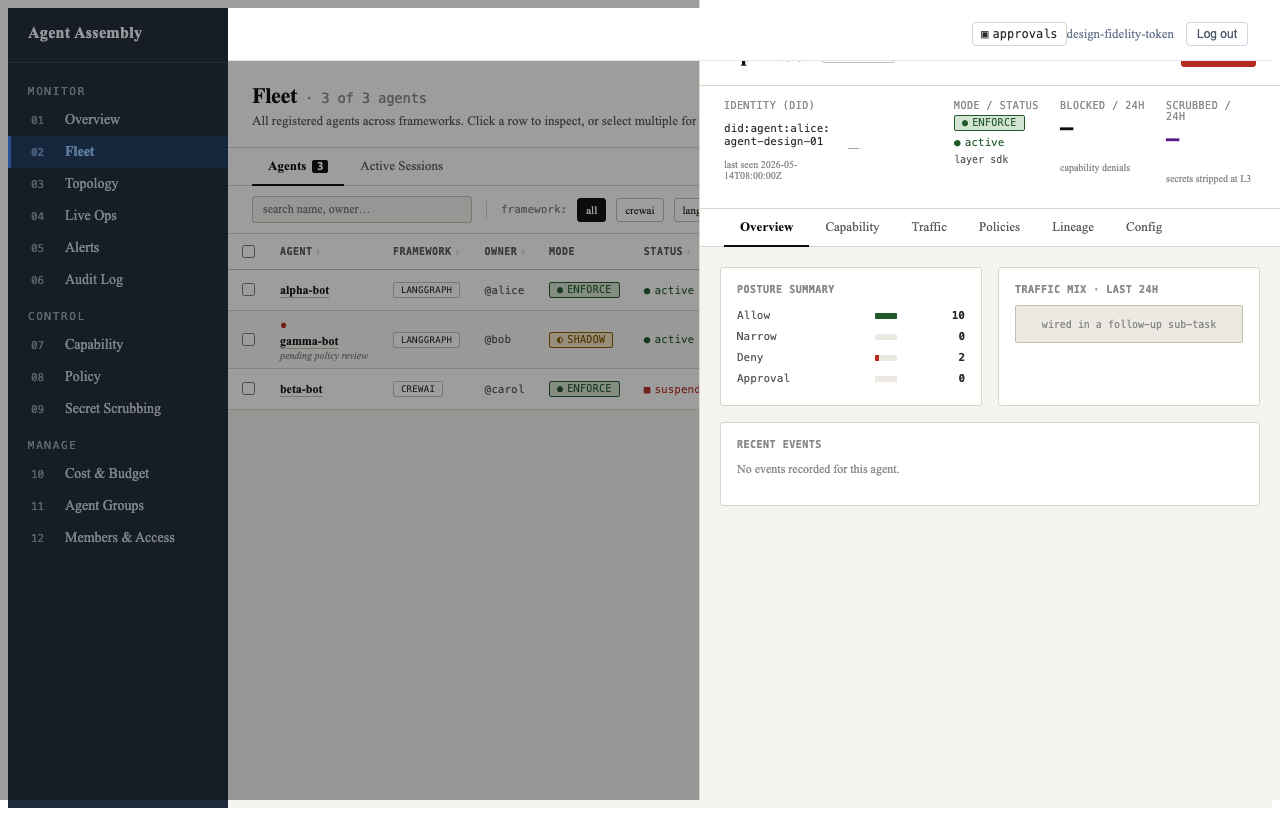
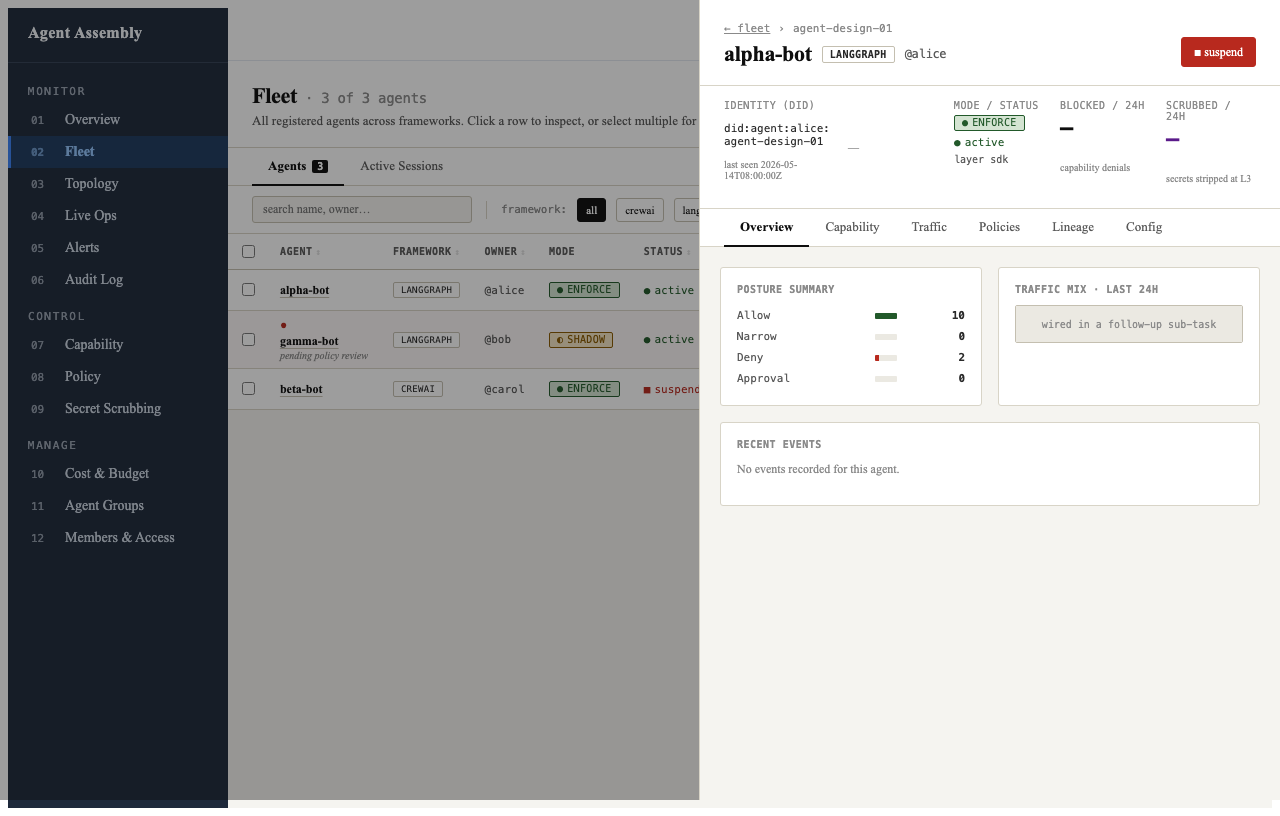
Merge pull request #422 from AI-agent-assembly/v0.0.1/AAASM-1405/fix/drawer_portal
[AAASM-1405] 🐛 (dashboard/components): Portal Drawer to body so it stacks above AppShell topbar

Pull request: [AAASM-1405] 🐛 (dashboard/components): Portal Drawer to body so it stacks above AppShell topbar
## Description

Fixes the stacking bug surfaced by AAASM-1382's design-fidelity verification: the AppShell topbar was visually overlapping the Agent Detail drawer head, hiding the breadcrumb / agent name / Suspend & Resume buttons in the top ~52 px of the drawer panel.

- **`Drawer.tsx`** — renders the scrim subtree via `ReactDOM.createPortal(tree, document.body)` so the drawer escapes any ancestor stacking context the host app establishes. SSR / non-DOM test renderers fall back to in-tree rendering to avoid hydration mismatches.
- **`Drawer.css`** — bumps the scrim's `z-index` from `50` to `1000` so it comfortably outranks anything inside `#root` at the new root-level comparison.
- **`fleet-design-fidelity.spec.ts`** — reverts the temporary `evaluate(el => el.click())` workaround back to a real `await page.getByTestId('agent-detail-suspend').click()`, now that pointer clicks reach the button.
- **`verification-reports/AAASM-217-design-fidelity.md`** + regenerated screenshots — Findings entry flipped to ✅ Fixed; per-section drawer-head row verdict updated; summary table now reads 11/11 surfaces match. The regenerated `00-detail-fullpage.png` and `07-detail-head.png` show the drawer scrim covering the topbar and the drawer head fully visible.

## Type of Change

- [ ] ✨ New feature
- [x] 🐛 Bug fix
- [ ] ♻️ Refactoring
- [ ] 🍀 Performance improvement
- [x] 📝 Documentation update _(updated fidelity report + screenshots)_
- [ ] 🔧 Configuration / CI change
[…]

Changed region(s): [[0.1562, 0.0, 0.75, 0.0919], [0.75, 0.0306, 1.0, 0.0919]]

diff --git a/dashboard/src/components/Drawer.tsx b/dashboard/src/components/Drawer.tsx
@@ -1,4 +1,5 @@
 import { useEffect, useRef, type MouseEvent, type ReactNode } from 'react'
+import { createPortal } from 'react-dom'
 import './Drawer.css'
 
 interface DrawerProps {
@@ -25,6 +26,12 @@ interface DrawerProps {
  * caller's responsibility (typically by mounting / unmounting at a routed
  * URL). No focus trap; v1 relies on the underlying page being inert behind
  * the scrim.
+ *
+ * Renders via `createPortal(..., document.body)` so the scrim escapes any
+ * ancestor stacking context the host app might establish (AAASM-1405 —
+ * the AppShell topbar was painting in front of the drawer head when the
+ * scrim was rendered in-tree). On the server / pre-mount, falls back to
+ * in-tree rendering to avoid SSR mismatches.
  */
 export function Drawer({ open, onClose, children, ariaLabel }: DrawerProps) {
   const onCloseRef = useRef(onClose)
@@ -49,7 +56,7 @@ export function Drawer({ open, onClose, children, ariaLabel }: DrawerProps) {
     if (e.target === e.currentTarget) onClose()
   }
 
-  return (
+  const tree = (
     <div
       className="drawer-scrim"
       data-testid="drawer-scrim"
@@ -67,4 +74,8 @@ export function Drawer({ open, onClose, children, ariaLabel }: DrawerProps) {
       </aside>
     </div>
   )
+
+  // Guard for SSR / test renderers without a body — fall back to in-tree.
+  if (typeof document === 'undefined' || !document.body) return tree
+  return createPortal(tree, document.body)
 }

diff --git a/dashboard/tests/e2e/fleet-design-fidelity.spec.ts b/dashboard/tests/e2e/fleet-design-fidelity.spec.ts
@@ -306,15 +306,10 @@ test.describe('AAASM-1382 — Fleet + Agent Detail design fidelity @ 1280x800', 
   test('Suspend reason dialog renders with required-field validation', async ({ page }) => {
     await gotoFleet(page)
     await page.getByTestId('agent-row').first().click()
-    // KNOWN ISSUE — flagged in `AAASM-217-design-fidelity.md`:
-    // the AppShell topbar visually overlaps the drawer head; a real pointer
-    // click on the suspend button is intercepted. Dispatch the click via
-    // `element.click()` (JS-level) so the React onClick handler still fires
-    // and we can capture the dialog. A Bug Sub-task should follow up on the
-    // production stacking-context fix.
-    await page
-      .getByTestId('agent-detail-suspend')
-      .evaluate((el) => (el as HTMLButtonElement).click())
+    // AAASM-1405 portalled the Drawer to `document.body`, so the drawer
+    // head now paints above the AppShell topbar and a real pointer click
+    // reaches the suspend button.
+    await page.getByTestId('agent-detail-suspend').click()
     const dialog = page.getByTestId('suspend-dialog')
     await expect(dialog).toBeVisible()
 

diff --git a/dashboard/src/components/Drawer.css b/dashboard/src/components/Drawer.css
@@ -2,7 +2,10 @@
   position: fixed;
   inset: 0;
   background: rgba(10, 10, 10, 0.4);
-  z-index: 50;
+  /* AAASM-1405: above the AppShell topbar (which sits in #root at the
+     default stacking level). Drawer is portalled to `document.body` so
+     this z-index is compared at root only. */
+  z-index: 1000;
   display: flex;
   justify-content: flex-end;
 }

diff --git a/verification-reports/AAASM-217-design-fidelity.md b/verification-reports/AAASM-217-design-fidelity.md
@@ -27,45 +27,50 @@
 | Agent Detail Overview tab (posture + traffic + events) | ✅ Matches |
 | Agent Detail follow-up tab empty-states | ✅ Matches |
 | Suspend reason dialog | ✅ Matches |
-| **AppShell topbar stacks above Agent Detail drawer head** | **⚠️ Bug — see Findings** |
+| **AppShell topbar stacks above Agent Detail drawer head** | **✅ Fixed (AAASM-1405)** |
 
-10 surfaces fully match the hi-fi prototype. 1 cross-cutting bug found in the
-AppShell + Drawer stacking interaction — flagged below; a Bug Sub-task should
-follow up on the production fix.
+All 11 in-scope surfaces fully match the hi-fi prototype after the
+AAASM-1405 fix.
 
 ## Findings
 
-### ⚠️ AppShell topbar overlaps Agent Detail drawer head
+### ✅ AppShell topbar overlaps Agent Detail drawer head — FIXED (AAASM-1405)
 
-The Drawer primitive (`dashboard/src/components/Drawer.tsx`) renders its
-scrim with `position: fixed; inset: 0; z-index: 50`. By spec this should
-overlay the entire viewport — including the AppShell topbar.
+> *Original finding, resolved.* The drawer now paints cleanly above the
+> AppShell topbar; the regenerated `00-detail-fullpage.png` and
+> `07-detail-head.png` show the breadcrumb / title / action buttons fully
+> visible with the scrim covering the topbar.
 
-In practice, the topbar visually obscures the top ~52 px of the drawer:
+**Original symptom.** The Drawer primitive (`dashboard/src/components/Drawer.tsx`)
+declared its scrim with `position: fixed; inset: 0; z-index: 50`, but the
+AppShell topbar painted in front of the drawer's top ~52 px:
 
-* Breadcrumb (`← fleet › <id>`) and agent name title in the drawer head are
+* Breadcrumb (`← fleet › <id>`) and agent name title in the drawer head were
   hidden behind the topbar
-* The `■ suspend` / `▶ resume` action buttons are partially obscured —
-  Playwright reports `header.appshell__topbar intercepts pointer events`
-  when trying to click them via real pointer events
-* The full-page screenshot (`00-detail-fullpage.png`) shows this clearly:
-  the white topbar (with "approvals" / "Log out") sits in front of the
-  drawer panel's top section
+* The `■ suspend` / `▶ resume` action buttons were obscured — Playwright
+  reported `header.appshell__topbar intercepts pointer events` on click
+* The original `00-detail-fullpage.png` showed the white topbar sitting in
+  front of the drawer panel's top section
 
-Likely root cause: a stacking-context boundary in `AppShell` (e.g.
-`appshell__content`'s `overflow: auto` combined with React tree ancestry)
-that prevents the Drawer scrim's `z-index: 50` from escaping to the root
-stacking context. A React portal to `document.body` would sidestep it.
+**Root cause.** A stacking-context boundary in the AppShell tree contained
+the scrim's `position: fixed`, so its `z-index: 50` was compared only
+within that contained context rather than at the root.
 
-**Workaround in the test**: `agent-detail-suspend.evaluate(el => el.click())`
-to fire the React handler directly. A real user can still suspend an agent
-because the close/click handlers on the underlying drawer route work — but
-the top buttons are not directly clickable via pointer.
+**Fix (AAASM-1405)**:
 
-**Recommendation**: open a Bug Sub-task under AAASM-217 (the parent Story
-is Done, but a quality bug on its shipped chrome belongs there). The fix
-likely sits in `Drawer.tsx` (portal to `document.body`) or `AppShell.css`
-(remove the implicit stacking context).
+1. `Drawer.tsx` now renders via `ReactDOM.createPortal(tree, document.body)`,
+   so the scrim becomes a direct child of `<body>` and escapes any AppShell
+   stacking context entirely. SSR / non-DOM test renderers fall back to
+   in-tree rendering.
+2. `Drawer.css` bumps the scrim to `z-index: 1000` (was 50) so it
+   comfortably outranks anything inside `#root` at the new root-level
+   comparison.
+
+**Verification.** Re-running `pnpm test:e2e fleet-design-fidelity` after
+the fix: all 11 tests pass with a real `await page.getByTestId('agent-detail-suspend').click()`
+— no more `evaluate(el => el.click())` workaround. The regenerated
+screenshots (`00-detail-fullpage.png`, `07-detail-head.png`) show the drawer
+correctly painted above the topbar with no overlap.
 
 ## Per-section walkthrough
 
@@ -168,12 +173,12 @@ resolves to the `--danger` RGB token. `N selected` counter present.
 | **Hi-fi** | `design/v1/hi-fi/agent-detail.jsx` lines 200-220 |
 | **Implementation** | `AgentDetailPage.tsx` lines 205-260 |
 | **Screenshot** | `07-detail-head.png` |
-| **Verdict** | ✅ Structure matches — see ⚠️ stacking finding above |
+| **Verdict** | ✅ Matches (AAASM-1405 portal fix landed) |
 
 The head's structural elements (breadcrumb, flag dot, title, framework
-chip, owner @-handle, action buttons) all render in the correct order with
-the hi-fi class palette. **Visual issue**: the AppShell topbar overlays
-this section — see Findings.
+chip, owner @-handle, action buttons) render in the correct order with
+the hi-fi class palette and are no longer obscured by the AppShell
+topbar — see the resolved Findings entry above.
 
 ### 08 — Agent Detail identity strip
 
@@ -265,8 +270,8 @@ pnpm test:e2e fleet-design-fidelity
 
 ## Next steps
 
-1. **File Bug Sub-task** under AAASM-217 for the topbar / drawer stacking
-   issue (production fix in `Drawer.tsx` or `AppShell.css`).
+1. ~~**File Bug Sub-task** under AAASM-217 for the topbar / drawer stacking
+   issue~~ — Done as AAASM-1405; fix landed in this PR.
 2. **Optional**: add `playwright-percy` or `pixelmatch` for automated
    regression coverage on these screenshots; currently the report is the
    human verification surface.